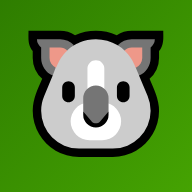
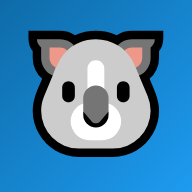
Blue theme, no videos, bigger exercises, listen type, level locking
- Full blue theme: primary #1D9BF0, all greens replaced
- Removed video sections from all stations
- Exercise cards larger: bigger text, taller options, more padding
- New listen exercise type with character avatar + auto-play
- 3 listen exercises added to greetings station (demo)
- Level locking: level 2+ locked until 50% of prev level done
- Completed topics tracked in localStorage
- Icon and PNG updated to blue gradient
- SW bumped to linguapro-v8

diff --git a/index.html b/index.html
@@ -4,7 +4,7 @@
 <meta charset="UTF-8">
 <meta name="viewport" content="width=device-width, initial-scale=1.0, maximum-scale=1, user-scalable=no">
 <link rel="manifest" href="manifest.json">
-<meta name="theme-color" content="#45A302">
+<meta name="theme-color" content="#1D9BF0">
 <meta name="mobile-web-app-capable" content="yes">
 <meta name="apple-mobile-web-app-capable" content="yes">
 <meta name="apple-mobile-web-app-status-bar-style" content="default">
@@ -17,7 +17,7 @@
 <style>
 :root{
   --bg:#F7F7F7;--bg2:#FFFFFF;--card:#FFFFFF;--card2:#F7F9FC;
-  --green:#58CC02;--green-deep:#45A302;--blue:#1CB0F6;--blue-deep:#1899D6;
+  --green:#1D9BF0;--green-deep:#1578C3;--blue:#7C3AED;--blue-deep:#6D28D9;
   --gold:#FFC800;--red:#FF4B4B;--purple:#CE82FF;
   --ink:#3C3C3C;--ink-soft:#777777;--line:#E5E5E5;
   --radius:18px;--radius-sm:12px;
@@ -42,11 +42,11 @@ h1,h2,h3,h4{font-family:'Space Grotesk',sans-serif;}
 .backbtn:hover{border-color:var(--green);color:var(--green-deep);}
 
 /* ─── hero ─── */
-.hero{background:linear-gradient(150deg,#E9FBDC,#FFFFFF);border:2px solid var(--line);border-radius:var(--radius);padding:20px 20px 18px;margin-bottom:22px;position:relative;overflow:hidden;}
-.hero::after{content:"";position:absolute;right:-30px;top:-30px;width:140px;height:140px;background:radial-gradient(circle,rgba(88,204,2,.15),transparent 70%);}
+.hero{background:linear-gradient(150deg,#DBEAFE,#FFFFFF);border:2px solid var(--line);border-radius:var(--radius);padding:20px 20px 18px;margin-bottom:22px;position:relative;overflow:hidden;}
+.hero::after{content:"";position:absolute;right:-30px;top:-30px;width:140px;height:140px;background:radial-gradient(circle,rgba(29,155,240,.15),transparent 70%);}
 .hero h2{font-size:22px;margin:0 0 6px;color:var(--ink);}
 .hero p{margin:0;color:var(--ink-soft);font-size:14.5px;line-height:1.5;}
-.hero .tag{display:inline-block;margin-top:12px;background:rgba(88,204,2,.12);color:var(--green-deep);border:1px solid rgba(88,204,2,.35);font-size:12.5px;font-weight:700;padding:5px 11px;border-radius:999px;}
+.hero .tag{display:inline-block;margin-top:12px;background:rgba(29,155,240,.12);color:var(--green-deep);border:1px solid rgba(29,155,240,.35);font-size:12.5px;font-weight:700;padding:5px 11px;border-radius:999px;}
 
 /* ─── selection grid (langs / levels) ─── */
 .selgrid{display:grid;grid-template-columns:1fr 1fr;gap:14px;}
@@ -60,7 +60,7 @@ h1,h2,h3,h4{font-family:'Space Grotesk',sans-serif;}
 .selcard h3{font-size:15px;margin:0 0 3px;color:var(--ink);}
 .selcard p{margin:0;font-size:11.5px;color:var(--ink-soft);}
 .selcard .lockbadge{position:absolute;top:8px;right:8px;background:var(--card2);border:1px solid var(--line);border-radius:999px;padding:2px 8px;font-size:10px;font-weight:700;color:var(--ink-soft);}
-.selcard.active .lockbadge{background:rgba(88,204,2,.15);color:var(--green-deep);border-color:rgba(88,204,2,.4);}
+.selcard.active .lockbadge{background:rgba(29,155,240,.15);color:var(--green-deep);border-color:rgba(29,155,240,.4);}
 
 /* ─── map path ─── */
 .path{position:relative;padding-left:26px;}
@@ -97,22 +97,17 @@ h1,h2,h3,h4{font-family:'Space Grotesk',sans-serif;}
 .ex-fr{color:#fff;background:var(--blue);padding:1px 6px;border-radius:6px;font-weight:600;}
 .sectionlabel{font-size:13px;color:var(--purple);margin:0 0 6px;font-weight:700;font-family:'Space Grotesk',sans-serif;}
 .reftable{width:100%;border-collapse:collapse;font-size:13px;margin:2px 0 16px;}
-.reftable th{background:rgba(88,204,2,.12);color:var(--green-deep);text-align:left;padding:8px 9px;font-size:11.5px;text-transform:uppercase;font-family:'Space Grotesk',sans-serif;}
+.reftable th{background:rgba(29,155,240,.12);color:var(--green-deep);text-align:left;padding:8px 9px;font-size:11.5px;text-transform:uppercase;font-family:'Space Grotesk',sans-serif;}
 .reftable td{padding:8px 9px;border-top:1px solid var(--line);color:var(--ink);}
 .reftable td.formcol{color:var(--blue-deep);font-weight:700;}
 .reftable tr:nth-child(even) td{background:rgba(0,0,0,.015);}
 .keynote{border:1px solid rgba(255,200,0,.5);background:rgba(255,200,0,.08);border-radius:12px;padding:12px 14px;margin:2px 0 4px;}
 .keynote .keyhead{display:block;color:#B98900;font-family:'Space Grotesk',sans-serif;font-size:13.5px;margin-bottom:6px;}
 
-/* ─── video ─── */
-.videowrap{position:relative;width:100%;padding-top:56.25%;border-radius:var(--radius-sm);overflow:hidden;background:#000;margin-bottom:8px;}
-.videowrap iframe{position:absolute;inset:0;width:100%;height:100%;border:0;}
-.videonote{font-size:12px;color:var(--ink-soft);text-align:center;margin:0;}
-
 /* ─── vocab grid ─── */
 .vocabgrid{display:grid;grid-template-columns:repeat(auto-fill,minmax(130px,1fr));gap:11px;margin-bottom:8px;}
 .vocabcard{background:var(--card2);border:2px solid var(--line);border-radius:14px;padding:18px 10px 13px;text-align:center;cursor:pointer;transition:.18s;position:relative;overflow:hidden;}
-.vocabcard:hover{border-color:var(--green);background:linear-gradient(160deg,#EFFCE5,#F7FFE9);transform:translateY(-3px);box-shadow:0 6px 0 rgba(88,204,2,.18);}
+.vocabcard:hover{border-color:var(--green);background:linear-gradient(160deg,#DBEAFE,#EFF6FF);transform:translateY(-3px);box-shadow:0 6px 0 rgba(29,155,240,.18);}
 .vocabcard:active{transform:translateY(1px);}
 .vocabcard .ve{font-size:46px;display:block;margin-bottom:8px;filter:drop-shadow(0 2px 6px rgba(0,0,0,.1));}
 .vocabcard .vw{font-size:13px;font-weight:700;color:var(--ink);display:block;margin-bottom:5px;line-height:1.2;}
@@ -120,30 +115,37 @@ h1,h2,h3,h4{font-family:'Space Grotesk',sans-serif;}
 
 /* ─── exercise ─── */
 .exwrap{margin-bottom:10px;}
-.exq{font-size:15px;font-weight:600;margin-bottom:12px;line-height:1.5;color:var(--ink);}
-.options{display:flex;flex-direction:column;gap:9px;}
-.opt{background:var(--card2);border:2px solid var(--line);border-radius:13px;padding:12px 15px;font-size:14px;cursor:pointer;transition:.12s;color:var(--ink);}
-.opt:hover{border-color:var(--green);}
-.opt.correct{background:rgba(88,204,2,.15);border-color:var(--green);color:var(--green-deep);font-weight:700;}
+.exq{font-size:17px;font-weight:700;margin-bottom:16px;line-height:1.5;color:var(--ink);}
+.options{display:flex;flex-direction:column;gap:10px;}
+.opt{background:var(--card2);border:2px solid var(--line);border-radius:14px;padding:15px 18px;font-size:15.5px;font-weight:600;cursor:pointer;transition:.12s;color:var(--ink);}
+.opt:hover{border-color:var(--green);transform:translateY(-1px);}
+.opt.correct{background:rgba(29,155,240,.15);border-color:var(--green);color:var(--green-deep);font-weight:700;}
 .opt.wrong{background:rgba(255,75,75,.12);border-color:var(--red);color:var(--red);animation:shakeit .4s;}
 .fillrow{display:flex;gap:8px;}
-.fillinput{flex:1;background:var(--card2);border:2px solid var(--line);color:var(--ink);font-family:'Inter';font-size:14.5px;padding:11px 13px;border-radius:11px;}
+.fillinput{flex:1;background:var(--card2);border:2px solid var(--line);color:var(--ink);font-family:'Inter';font-size:15px;padding:13px 15px;border-radius:12px;}
 .fillinput:focus{outline:none;border-color:var(--green);}
-.checkbtn{background:linear-gradient(145deg,var(--green),var(--green-deep));color:#fff;border:none;font-family:'Space Grotesk',sans-serif;font-weight:700;font-size:13.5px;padding:11px 18px;border-radius:11px;cursor:pointer;box-shadow:0 3px 0 var(--green-deep);}
+.checkbtn{background:linear-gradient(145deg,var(--green),var(--green-deep));color:#fff;border:none;font-family:'Space Grotesk',sans-serif;font-weight:700;font-size:14px;padding:13px 20px;border-radius:12px;cursor:pointer;box-shadow:0 3px 0 var(--green-deep);}
 .checkbtn:active{transform:translateY(2px);box-shadow:none;}
-.feedback{margin-top:10px;padding:11px 14px;border-radius:11px;font-size:13.5px;font-weight:600;display:none;}
+.feedback{margin-top:12px;padding:13px 16px;border-radius:12px;font-size:14px;font-weight:700;display:none;}
 .feedback.show{display:block;}
-.feedback.correct{background:rgba(88,204,2,.12);color:var(--green-deep);}
+.feedback.correct{background:rgba(29,155,240,.12);color:var(--green-deep);}
 .feedback.wrong{background:rgba(255,75,75,.1);color:var(--red);}
-.speakbox{display:flex;align-items:center;gap:10px;background:var(--card2);border-radius:13px;padding:14px;}
-.speakbtn{width:46px;height:46px;border-radius:50%;background:var(--blue);border:none;color:#fff;font-size:18px;cursor:pointer;flex:none;}
-.speak-phrase{font-size:15px;font-weight:600;color:var(--ink);margin-bottom:4px;}
-.speak-translation{font-size:12.5px;color:var(--ink-soft);}
-.micbtn{width:50px;height:50px;border-radius:50%;background:var(--red);border:none;color:#fff;font-size:20px;cursor:pointer;flex:none;}
+.speakbox{display:flex;align-items:center;gap:10px;background:var(--card2);border-radius:14px;padding:16px;}
+.speakbtn{width:50px;height:50px;border-radius:50%;background:var(--green);border:none;color:#fff;font-size:20px;cursor:pointer;flex:none;box-shadow:0 3px 0 var(--green-deep);}
+.speak-phrase{font-size:16px;font-weight:700;color:var(--ink);margin-bottom:4px;}
+.speak-translation{font-size:13px;color:var(--ink-soft);}
+.micbtn{width:52px;height:52px;border-radius:50%;background:var(--red);border:none;color:#fff;font-size:22px;cursor:pointer;flex:none;}
 .micbtn.recording{animation:listening .7s ease-in-out infinite;}
 .speak-status{font-size:12px;color:var(--ink-soft);margin-top:7px;font-style:italic;}
 @keyframes shakeit{10%,90%{transform:translateX(-2px);}20%,80%{transform:translateX(3px);}30%,50%,70%{transform:translateX(-5px);}40%,60%{transform:translateX(5px);}}
 @keyframes listening{0%,100%{transform:scale(1);background:var(--red);}50%{transform:scale(1.15);background:#ff2244;}}
+/* ─── listen exercise ─── */
+.listen-char{display:flex;align-items:center;gap:14px;background:var(--card2);border:2px solid var(--line);border-radius:14px;padding:14px 16px;margin-bottom:14px;}
+.char-avatar{width:72px;height:72px;border-radius:50%;background:linear-gradient(135deg,var(--green),var(--green-deep));display:flex;align-items:center;justify-content:center;font-size:38px;flex:none;box-shadow:0 3px 0 var(--green-deep);}
+.char-name{font-size:15px;font-weight:700;color:var(--ink);margin-bottom:3px;}
+.char-says{font-size:12.5px;color:var(--ink-soft);}
+.listen-btn{width:100%;display:flex;align-items:center;justify-content:center;gap:10px;background:linear-gradient(135deg,var(--green),var(--green-deep));color:#fff;border:none;font-family:'Space Grotesk',sans-serif;font-weight:700;font-size:15px;padding:15px;border-radius:13px;cursor:pointer;margin-bottom:16px;box-shadow:0 4px 0 var(--green-deep);}
+.listen-btn:active{transform:translateY(3px);box-shadow:none;}
 
 /* ─── nav ─── */
 .exnav{display:flex;align-items:center;justify-content:space-between;margin-top:14px;}
@@ -153,7 +155,7 @@ h1,h2,h3,h4{font-family:'Space Grotesk',sans-serif;}
 .nextbtn:disabled{opacity:.4;cursor:not-allowed;}
 
 /* ─── CHAT station ─── */
-.chat-header{background:linear-gradient(150deg,#E9FBDC,#FFFFFF);border:2px solid var(--line);border-radius:var(--radius);padding:16px 18px;margin-bottom:14px;}
+.chat-header{background:linear-gradient(150deg,#DBEAFE,#FFFFFF);border:2px solid var(--line);border-radius:var(--radius);padding:16px 18px;margin-bottom:14px;}
 .chat-header h3{font-size:17px;margin:0 0 6px;color:var(--ink);}
 .scenario-row{display:flex;flex-wrap:wrap;gap:8px;margin-bottom:14px;}
 .scenario-pill{background:var(--card);border:2px solid var(--line);color:var(--ink);font-family:'Space Grotesk',sans-serif;font-weight:700;font-size:12.5px;padding:8px 13px;border-radius:999px;cursor:pointer;transition:.12s;}
@@ -181,7 +183,7 @@ h1,h2,h3,h4{font-family:'Space Grotesk',sans-serif;}
 .sugg-pill:hover{border-color:var(--blue);background:rgba(28,176,246,.18);}
 .chat-progress{font-size:13px;font-weight:700;color:var(--green-deep);padding:8px 14px;border-top:1px solid var(--line);font-family:'Space Grotesk',sans-serif;}
 
-.donebar{display:none;align-items:center;gap:10px;background:rgba(88,204,2,.1);border:1px solid rgba(88,204,2,.4);color:var(--green-deep);font-family:'Space Grotesk',sans-serif;font-weight:700;padding:13px 16px;border-radius:var(--radius);margin-top:6px;font-size:14.5px;}
+.donebar{display:none;align-items:center;gap:10px;background:rgba(29,155,240,.1);border:1px solid rgba(29,155,240,.4);color:var(--green-deep);font-family:'Space Grotesk',sans-serif;font-weight:700;padding:13px 16px;border-radius:var(--radius);margin-top:6px;font-size:14.5px;}
 .donebar.show{display:flex;}
 footer{text-align:center;font-size:11.5px;color:var(--ink-soft);margin-top:30px;opacity:.7;}
 @media(min-width:560px){.hero h2{font-size:25px;}}
@@ -211,7 +213,7 @@ footer{text-align:center;font-size:11.5px;color:var(--ink-soft);margin-top:30px;
 .match-card{background:var(--card2);border:2px solid var(--line);border-radius:11px;padding:10px 11px;font-size:13px;font-weight:600;color:var(--ink);cursor:pointer;text-align:center;transition:.12s;min-height:44px;display:flex;align-items:center;justify-content:center;line-height:1.3;}
 .match-card:hover{border-color:var(--blue);background:rgba(28,176,246,.06);}
 .match-card.selected{border-color:var(--blue);background:rgba(28,176,246,.14);box-shadow:0 0 0 3px rgba(28,176,246,.25);}
-.match-card.matched{background:rgba(88,204,2,.12);border-color:var(--green);color:var(--green-deep);pointer-events:none;font-weight:700;}
+.match-card.matched{background:rgba(29,155,240,.12);border-color:var(--green);color:var(--green-deep);pointer-events:none;font-weight:700;}
 .match-card.wrong-flash{animation:wrongFlash .45s;}
 @keyframes wrongFlash{0%,100%{border-color:var(--line);background:var(--card2);}40%,60%{border-color:var(--red);background:rgba(255,75,75,.1);}}
 .match-hint{font-size:12px;color:var(--ink-soft);margin-bottom:10px;font-style:italic;}
@@ -224,11 +226,11 @@ footer{text-align:center;font-size:11.5px;color:var(--ink-soft);margin-top:30px;
 .mission-bar-wrap{height:6px;background:var(--line);border-radius:999px;overflow:hidden;}
 .mission-bar{height:100%;background:linear-gradient(90deg,var(--green),var(--green-deep));border-radius:999px;transition:width .4s;}
 .mission-reward{font-family:'Space Grotesk',sans-serif;font-weight:800;font-size:12px;color:var(--gold);flex:none;background:rgba(255,200,0,.12);border:2px solid rgba(255,200,0,.3);padding:5px 9px;border-radius:999px;white-space:nowrap;}
-.mission-reward.claimed{background:rgba(88,204,2,.1);border-color:rgba(88,204,2,.3);color:var(--green-deep);}
-.mission-reward.ready{background:rgba(88,204,2,.18);border-color:rgba(88,204,2,.5);color:var(--green-deep);cursor:pointer;animation:pulse 1.2s ease-in-out infinite;}
-@keyframes pulse{0%,100%{box-shadow:0 0 0 0 rgba(88,204,2,.4);}50%{box-shadow:0 0 0 6px rgba(88,204,2,0);}}
+.mission-reward.claimed{background:rgba(29,155,240,.1);border-color:rgba(29,155,240,.3);color:var(--green-deep);}
+.mission-reward.ready{background:rgba(29,155,240,.18);border-color:rgba(29,155,240,.5);color:var(--green-deep);cursor:pointer;animation:pulse 1.2s ease-in-out infinite;}
+@keyframes pulse{0%,100%{box-shadow:0 0 0 0 rgba(29,155,240,.4);}50%{box-shadow:0 0 0 6px rgba(29,155,240,0);}}
 /* ─── donebar upgrade ─── */
-.donebar{display:none;flex-direction:column;align-items:center;gap:8px;background:linear-gradient(135deg,rgba(88,204,2,.12),rgba(88,204,2,.05));border:2px solid rgba(88,204,2,.4);color:var(--green-deep);font-family:'Space Grotesk',sans-serif;font-weight:700;padding:18px;border-radius:var(--radius);margin-top:12px;font-size:15px;text-align:center;}
+.donebar{display:none;flex-direction:column;align-items:center;gap:8px;background:linear-gradient(135deg,rgba(29,155,240,.12),rgba(29,155,240,.05));border:2px solid rgba(29,155,240,.4);color:var(--green-deep);font-family:'Space Grotesk',sans-serif;font-weight:700;padding:18px;border-radius:var(--radius);margin-top:12px;font-size:15px;text-align:center;}
 .donebar.show{display:flex;}
 .donebar .done-koala{font-size:48px;display:block;}
 </style>
@@ -250,7 +252,7 @@ footer{text-align:center;font-size:11.5px;color:var(--ink-soft);margin-top:30px;
   <div id="screen-langs">
     <div class="hero">
       <h2>¡Bienvenido a LinguaPro! 🐨</h2>
-      <p>Elige el idioma que quieres aprender. Cada idioma tiene su propio curso completo con niveles, ejercicios, videos, vocabulario y conversación real.</p>
+      <p>Elige el idioma que quieres aprender. Cada idioma tiene su propio curso completo con niveles, ejercicios interactivos, vocabulario ilustrado y conversación real.</p>
     </div>
     <div class="selgrid" id="langGrid"></div>
     <div id="missionsWidget" style="margin-top:20px"></div>
@@ -261,7 +263,7 @@ footer{text-align:center;font-size:11.5px;color:var(--ink-soft);margin-top:30px;
     <button class="backbtn" onclick="showLangScreen()">← Idiomas</button>
     <div class="hero">
       <h2 id="levelsHeroTitle">Français 🇫🇷</h2>
-      <p id="levelsHeroDesc">Elige tu nivel. Cada nivel tiene estaciones con gramática, videos, vocabulario, ejercicios y una sala de conversación.</p>
+      <p id="levelsHeroDesc">Elige tu nivel. Cada nivel tiene estaciones con gramática, vocabulario, ejercicios interactivos y una sala de conversación.</p>
     </div>
     <div class="selgrid" id="levelGrid"></div>
   </div>
@@ -309,7 +311,10 @@ exercises:[
   {type:"fill",q:"Ça ____ bien, merci! (va — verbo aller)",answers:["va"]},
   {type:"mcq",q:"Alguien te dice 'Enchanté!' ¿Qué respondes?",options:["Au revoir!","Enchanté(e) aussi!","Merci beaucoup!"],correct:1},
   {type:"speak",phrase:"Bonjour! Je m'appelle Sophie. Comment vous appelez-vous?",translation:"¡Hola! Me llamo Sophie. ¿Cómo se llama usted?"},
-  {type:"fill",q:"____ revoir! (adiós)",answers:["Au"]}
+  {type:"fill",q:"____ revoir! (adiós)",answers:["Au"]},
+  {type:"listen",q:"¿Qué saludo escuchaste?",phrase:"bonjour",char:{emoji:"🧑🏫",name:"Léo"},options:["Bonjour","Bonsoir","Au revoir","Salut"],correct:0},
+  {type:"listen",q:"¿Qué frase de presentación escuchaste?",phrase:"je m'appelle Marie",char:{emoji:"👩",name:"Marie"},options:["Je m'appelle Marie","Comment ça va?","Je suis étudiant","Au revoir!"],correct:0},
+  {type:"listen",q:"¿Cómo dice Léo 'hasta pronto'?",phrase:"à bientôt",char:{emoji:"🧑🏫",name:"Léo"},options:["À bientôt!","Bonjour!","Merci!","Enchanté!"],correct:0}
 ]},
 
 {id:"etre",num:2,title:"Être — Verbo Ser/Estar",emoji:"🧍",cardDesc:"je suis, tu es, il est — el verbo más importante",
@@ -1112,6 +1117,17 @@ function showLangScreen(){
   document.getElementById('topicview').classList.remove('active');
   renderLangGrid();
 }
+function isLevelLocked(langId, levelIdx){
+  if(levelIdx===0) return false;
+  const levels = LEVELS[langId]||[];
+  const prevLv = levels[levelIdx-1];
+  if(!prevLv) return false;
+  const prevTopics = (window.LP_TOPICS[prevLv.id]||[]).filter(t=>!t.isChat);
+  if(prevTopics.length===0) return false;
+  const done = lsGet('done_topics')||[];
+  const completedCount = prevTopics.filter(t=>done.includes(t.id)).length;
+  return completedCount < Math.ceil(prevTopics.length*0.5);
+}
 function showLevelScreen(){
   document.getElementById('screen-langs').style.display='none';
   document.getElementById('screen-levels').style.display='block';
@@ -1121,17 +1137,30 @@ function showLevelScreen(){
   document.getElementById('levelsHeroTitle').textContent = `${lang.name} ${lang.flag}`;
   document.getElementById('topbarSub').textContent = lang.name;
   const grid = document.getElementById('levelGrid');
-  grid.innerHTML = (LEVELS[currentLangId]||[]).map(lv=>`
-    <div class="selcard ${lv.active?'active':'locked'}" onclick="selectLevel('${lv.id}')">
-      <span class="lockbadge">${lv.active?'Disponible':'🔒 Pronto'}</span>
-      <span class="selflag">${lv.active?'📖':'🔒'}</span>
+  const lvList = LEVELS[currentLangId]||[];
+  grid.innerHTML = lvList.map((lv,idx)=>{
+    const comingSoon = !lv.active;
+    const locked = isLevelLocked(currentLangId,idx);
+    const isLocked = comingSoon||locked;
+    let badge, flag;
+    if(comingSoon){ badge='🔒 Pronto'; flag='🔒'; }
+    else if(locked){ badge='🔒 Bloqueado'; flag='🔒'; }
+    else { badge='Disponible'; flag='📖'; }
+    return `<div class="selcard ${isLocked?'locked':'active'}" onclick="selectLevel('${lv.id}')">
+      <span class="lockbadge">${badge}</span>
+      <span class="selflag">${flag}</span>
       <h3>${lv.name}</h3>
       <p>${lv.desc}</p>
-    </div>`).join('');
+    </div>`;
+  }).join('');
 }
 function selectLevel(id){
-  const lv = (LEVELS[currentLangId]||[]).find(l=>l.id===id);
-  if(!lv.active){ toast('🔒 Este nivel estará disponible pronto. ¡Empieza con el Nivel 1!'); return; }
+  const levels = LEVELS[currentLangId]||[];
+  const idx = levels.findIndex(l=>l.id===id);
+  const lv = levels[idx];
+  if(!lv) return;
+  if(!lv.active){ toast('🔒 Este nivel estará disponible pronto.'); return; }
+  if(isLevelLocked(currentLangId,idx)){ toast('🔒 ¡Completa al menos el 50% del nivel anterior para desbloquear este!'); return; }
   currentLevelId = id;
   TOPICS = (window.LP_TOPICS[id]||[]).map(t=>t);
   progress.length = 0;
@@ -1275,12 +1304,6 @@ function renderTopic(t){
 
   html += `<div class="card"><h4>📘 Explication</h4><div class="explain">${t.explain.join('')}</div></div>`;
 
-  if(t.video){
-    html += `<div class="card"><h4>🎬 Vidéo</h4>
-      <div class="videowrap"><iframe src="https://www.youtube.com/embed/${t.video}" allowfullscreen></iframe></div>
-      <p class="videonote">${t.videoNote||''}</p></div>`;
-  }
-
   if(t.vocab){
     t.vocab.forEach(cat=>{
       html += `<div class="card"><h4>${cat.cat}</h4><div class="vocabgrid">`;
@@ -1346,6 +1369,21 @@ function renderExercise(){
       <button type="button" class="checkbtn" onclick="checkOrder()">Vérifier</button>
       <div class="feedback" id="fb"></div>`;
     window._orderPicked = [];
+  } else if(ex.type==='listen'){
+    const ch = ex.char||{emoji:'🧑🏫',name:'Léo'};
+    body += `<div class="listen-char">
+      <div class="char-avatar">${ch.emoji}</div>
+      <div><div class="char-name">${ch.name} dice...</div>
+        <div class="char-says">Escucha y elige la opción correcta</div>
+      </div>
+    </div>
+    <button type="button" class="listen-btn" id="listenPlayBtn" onclick="speak('${ex.phrase.replace(/'/g,"\\'")}',0.75)">
+      🔊 &nbsp;Escuchar de nuevo
+    </button>
+    <div class="exq">${ex.q}</div>
+    <div class="options" id="optsWrap">`;
+    ex.options.forEach((o,idx)=>{ body+=`<div class="opt" onclick="checkMcq(${idx})" data-idx="${idx}">${o}</div>`; });
+    body+=`</div><div class="feedback" id="fb"></div>`;
   } else if(ex.type==='speak'){
     body += `<div class="speakbox">
       <button type="button" class="speakbtn" onclick="speak('${ex.phrase.replace(/'/g,"\\'")}',0.75)">🔊</button>
@@ -1364,6 +1402,8 @@ function renderExercise(){
     <button type="button" class="nextbtn" id="nextBtn" onclick="nextExercise()" ${progress[t.id][i]?'':'disabled'}>Suivant →</button>
   </div>`;
   card.innerHTML = body;
+
+  if(ex.type==='listen'){ setTimeout(()=>speak(ex.phrase,0.75),350); }
 
   if(progress[t.id][i]){
     markCardAnswered(ex);
@@ -1390,6 +1430,8 @@ function enableNext(){
     if(!card.querySelector('.donebar')){
       card.innerHTML += `<div class="donebar show"><span class="done-koala">🐨</span>¡Estación completada! +50 XP</div>`;
       if(wasNew){
+        const doneTops = lsGet('done_topics')||[];
+        if(!doneTops.includes(currentTopic.id)){ doneTops.push(currentTopic.id); lsSet('done_topics',doneTops); }
         lsSet('xp',getXP()+50);
         const xpEl=document.getElementById('xpCount'); if(xpEl) xpEl.textContent=getXP();
         updateMissionProgress('station',1);

diff --git a/sw.js b/sw.js
@@ -1,4 +1,4 @@
-const CACHE = 'linguapro-v7';
+const CACHE = 'linguapro-v8';
 const ASSETS = ['./', './index.html', './manifest.json', './icon.svg', './apple-touch-icon.png'];
 
 self.addEventListener('install', e => {